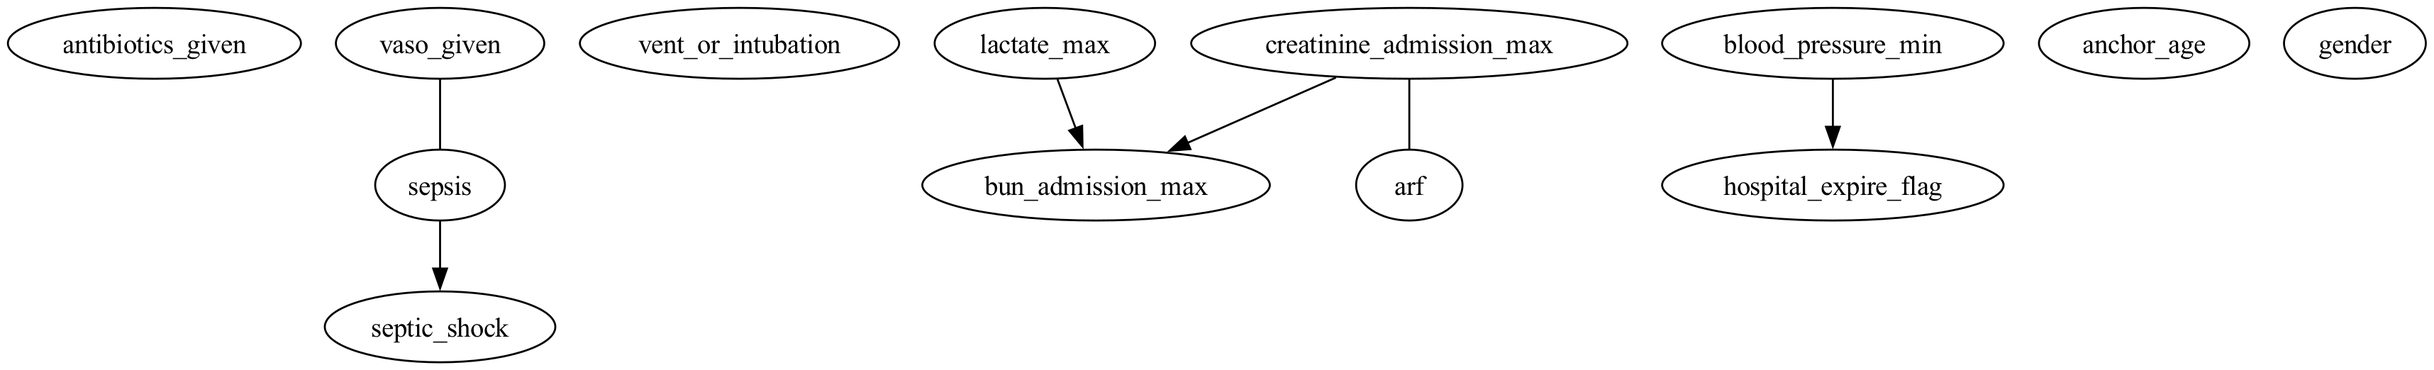
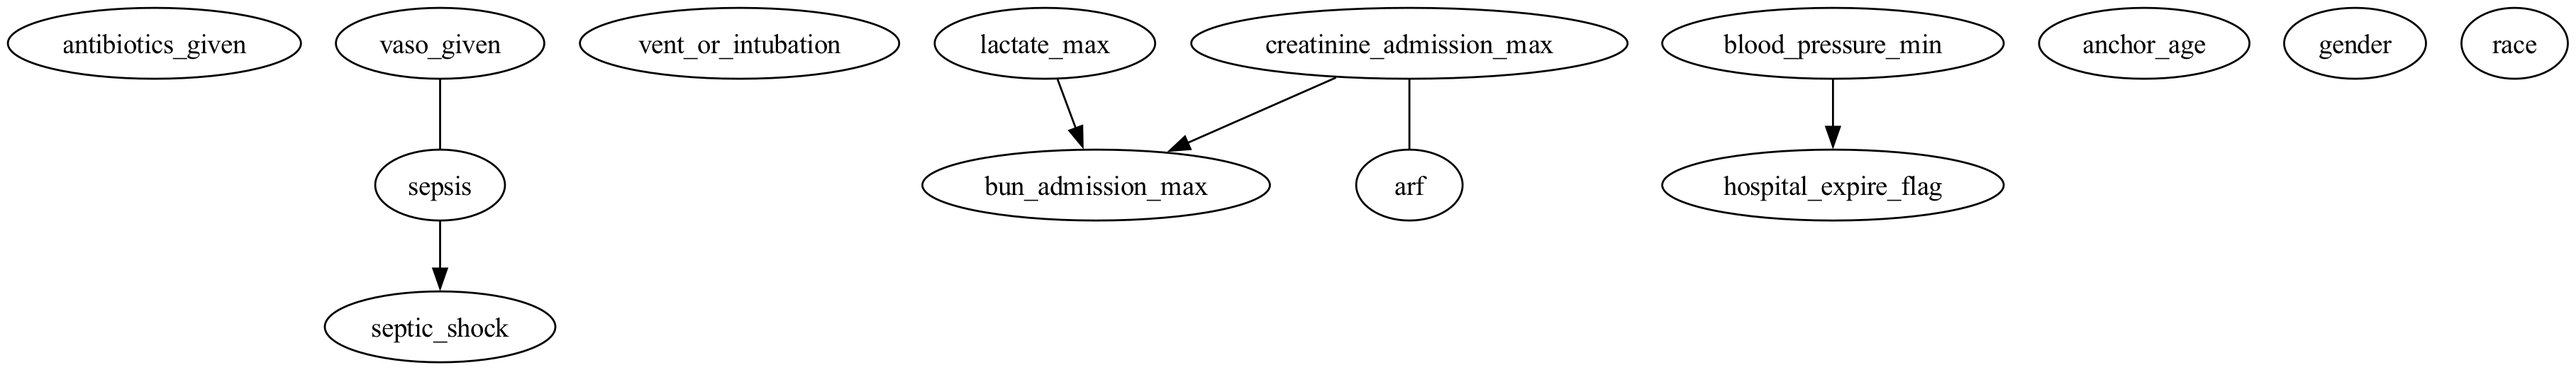
3 Models

diff --git a/cd-pass2/model2.py b/cd-pass2/model2.py
@@ -71,22 +71,25 @@ df2["lactate_max"] = df2["lactate_max"].apply(discretize_lactate)
 df2["anchor_age"] = df2["anchor_age"].apply(discretize_age)
 
 
-for col in categorical_cols:
-    df2[col] = df2[col].astype('category').cat.codes
-for col in binary_cols:
-    df2[col] = df2[col].astype('int')
+
+
+
 
 
 core_cols = ['antibiotics_given', 'vaso_given','vent_or_intubation', 'creatinine_admission_max', 'bun_admission_max', 'blood_pressure_min','lactate_max','anchor_age','gender',"race",'hospital_expire_flag', 'septic_shock', 'sepsis', 'arf']
+
 df2=df2[core_cols]
+for col in core_cols:
+    df2[col] = df2[col].astype('category')
 
 data = df2.to_numpy()
+print(data)
 cg = pc(data, indep_test='chisq')
 nodes = cg.G.get_nodes()
 bk = BackgroundKnowledge()
 for i in range(len(nodes)):
     bk.add_forbidden_by_node(nodes[9], nodes[i])
-bk.add_forbidden_by_node(nodes[10], nodes[11])
+bk.add_forbidden_by_node(nodes[11], nodes[12])
 cg_with_background_knowledge = pc(data, indep_test='chisq', background_knowledge=bk)
 cg_with_background_knowledge.draw_pydot_graph(labels=core_cols)
 pyd = GraphUtils.to_pydot(cg_with_background_knowledge.G,labels=core_cols) 

diff --git a/cd-pass2/model3.py b/cd-pass2/model3.py
@@ -22,7 +22,7 @@ for col in categorical_cols:
     df[col] = df[col].astype('category').cat.codes
 for col in binary_cols:
     df[col] = df[col].astype('int')
-core_cols = ['antibiotics_given', 'vaso_given','vent_or_intubation', 'creatinine_admission_max', 'bun_admission_max', 'blood_pressure_min','lactate_max','anchor_age','gender','hospital_expire_flag', 'septic_shock', 'sepsis', 'arf']
+core_cols = ['antibiotics_given', 'vaso_given','vent_or_intubation', 'creatinine_admission_max', 'bun_admission_max', 'blood_pressure_min','lactate_max','anchor_age','gender','hospital_expire_flag', 'septic_shock', 'sepsis', 'arf','race']
 data = df[core_cols].to_numpy()
 cg = pc(data, indep_test='mv_fisherz', mvpc=True)
 nodes = cg.G.get_nodes()

diff --git a/cd-pass2/model1.py b/cd-pass2/model1.py
@@ -25,7 +25,7 @@ for col in categorical_cols:
 for col in binary_cols:
     df[col] = df[col].astype('int')
 
-core_cols = ['antibiotics_given', 'vaso_given','vent_or_intubation', 'creatinine_admission_max', 'bun_admission_max', 'blood_pressure_min','lactate_max','anchor_age','gender','hospital_expire_flag', 'septic_shock', 'sepsis', 'arf']
+core_cols = ['antibiotics_given', 'vaso_given','vent_or_intubation', 'creatinine_admission_max', 'bun_admission_max', 'blood_pressure_min','lactate_max','anchor_age','gender','hospital_expire_flag', 'septic_shock', 'sepsis', 'arf','race']
 data = df[core_cols].to_numpy()
 cg = pc(data, indep_test='fisherz')
 nodes = cg.G.get_nodes()
